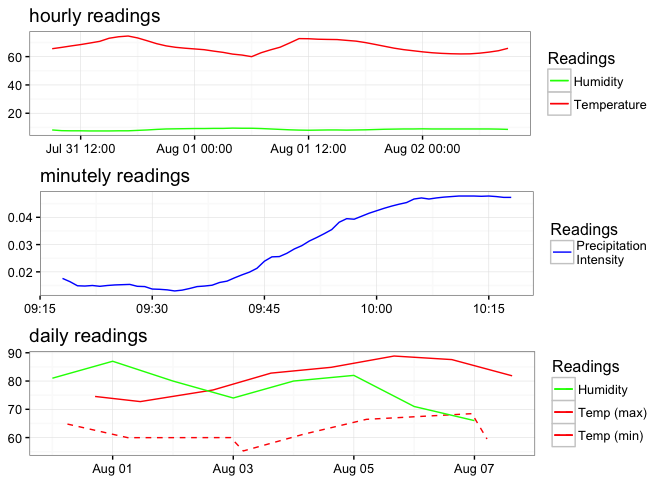
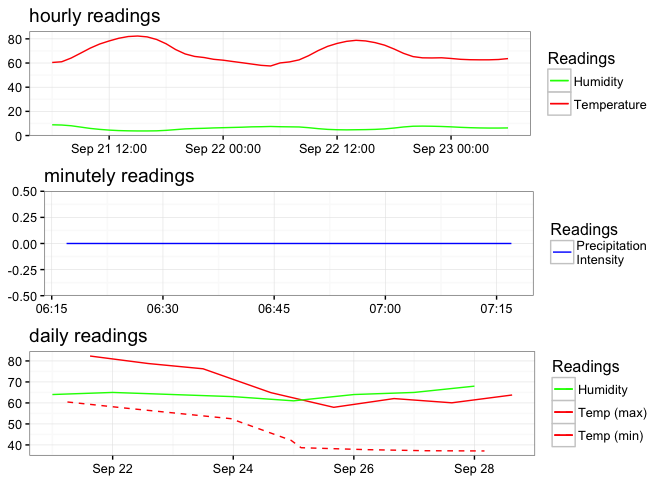
Fixed URLs in other places besides API calls & changed references to "Forecast API" to "Dark Sky API"

diff --git a/README.md b/README.md
@@ -1,10 +1,10 @@
 
 [![Build Status](https://travis-ci.org/hrbrmstr/Rforecastio.svg)](https://travis-ci.org/hrbrmstr/Rforecastio)
 
-`Rforecastio` : Tools to Work with the 'Forecast' 'API'
+`Rforecastio` : Tools to Work with the Dark Sky API
 
--   Forecast API Docs: <https://developer.forecast.io/docs/v2>
--   Forecast Dev site: <https://developer.forecast.io/>
+-   Forecast API Docs: <https://darksky.net/dev/docs>
+-   Forecast Dev site: <https://darksky.net/dev/>
 
 The following functions are implemented:
 
@@ -18,6 +18,7 @@ There have been several major enhancements to the way this package works with th
 
 ### News
 
+-   2.3.0 - Fixed API URL (thx Lasse Vilhelmsen!)
 -   2.2.0 - `print()` method, made JSON & headers optional in respons object, smarter printing
 -   Version 2.1.1 released - fix "language" parameter per \#9
 -   Version 2.1.0 released - added `httr::GET` pass-through `...` parameter to salient functions
@@ -39,7 +40,7 @@ library(Rforecastio)
 packageVersion("Rforecastio")
 ```
 
-    ## [1] '2.2.0'
+    ## [1] '2.3.0'
 
 ``` r
 now <- get_current_forecast(43.2672, -70.8617)
@@ -49,88 +50,85 @@ print(now)
     ## minutely 
     ## ======================================================================================================================== 
     ## Observations: 61
-    ## Variables: 5
-    ## $ time                 <time> 2016-07-31 09:18:00, 2016-07-31 09:19:00, 2016-07-31 09:20:00, 2016-07-31 09:21:00, 2...
-    ## $ precipIntensity      <dbl> 0.0176, 0.0164, 0.0149, 0.0148, 0.0150, 0.0147, 0.0150, 0.0152, 0.0153, 0.0154, 0.0147...
-    ## $ precipIntensityError <dbl> 0.0009, 0.0010, 0.0009, 0.0009, 0.0010, 0.0009, 0.0010, 0.0011, 0.0012, 0.0013, 0.0013...
-    ## $ precipProbability    <int> 1, 1, 1, 1, 1, 1, 1, 1, 1, 1, 1, 1, 1, 1, 1, 1, 1, 1, 1, 1, 1, 1, 1, 1, 1, 1, 1, 1, 1,...
-    ## $ precipType           <chr> "rain", "rain", "rain", "rain", "rain", "rain", "rain", "rain", "rain", "rain", "rain"...
+    ## Variables: 3
+    ## $ time              <dttm> 2016-09-21 06:17:00, 2016-09-21 06:18:00, 2016-09-21 06:19:00, 2016-09-21 06:20:00, 2016...
+    ## $ precipIntensity   <int> 0, 0, 0, 0, 0, 0, 0, 0, 0, 0, 0, 0, 0, 0, 0, 0, 0, 0, 0, 0, 0, 0, 0, 0, 0, 0, 0, 0, 0, 0,...
+    ## $ precipProbability <int> 0, 0, 0, 0, 0, 0, 0, 0, 0, 0, 0, 0, 0, 0, 0, 0, 0, 0, 0, 0, 0, 0, 0, 0, 0, 0, 0, 0, 0, 0,...
     ## 
     ## hourly 
     ## ======================================================================================================================== 
     ## Observations: 49
     ## Variables: 16
-    ## $ time                <time> 2016-07-31 09:00:00, 2016-07-31 10:00:00, 2016-07-31 11:00:00, 2016-07-31 12:00:00, 20...
-    ## $ summary             <chr> "Light Rain", "Light Rain", "Light Rain", "Light Rain", "Light Rain", "Light Rain", "Li...
-    ## $ icon                <chr> "rain", "rain", "rain", "rain", "rain", "rain", "rain", "rain", "partly-cloudy-day", "p...
-    ## $ precipIntensity     <dbl> 0.0189, 0.0326, 0.0347, 0.0297, 0.0247, 0.0184, 0.0132, 0.0067, 0.0022, 0.0025, 0.0000,...
-    ## $ precipProbability   <dbl> 0.49, 0.53, 0.54, 0.53, 0.51, 0.48, 0.45, 0.28, 0.06, 0.07, 0.00, 0.00, 0.00, 0.00, 0.0...
-    ## $ precipType          <chr> "rain", "rain", "rain", "rain", "rain", "rain", "rain", "rain", "rain", "rain", NA, NA,...
-    ## $ temperature         <dbl> 65.59, 66.53, 67.56, 68.51, 69.63, 70.78, 72.99, 74.04, 74.55, 73.20, 71.22, 69.15, 67....
-    ## $ apparentTemperature <dbl> 65.59, 66.53, 67.56, 68.51, 69.63, 70.78, 72.99, 74.04, 74.55, 73.20, 71.22, 69.15, 67....
-    ## $ dewPoint            <dbl> 59.80, 59.17, 59.78, 60.49, 61.48, 62.59, 64.47, 65.96, 66.63, 66.27, 65.51, 64.91, 64....
-    ## $ humidity            <dbl> 0.82, 0.77, 0.76, 0.76, 0.75, 0.75, 0.75, 0.76, 0.76, 0.79, 0.82, 0.86, 0.89, 0.90, 0.9...
-    ## $ windSpeed           <dbl> 5.26, 5.37, 5.16, 5.21, 4.29, 3.95, 4.16, 3.77, 3.76, 3.76, 3.99, 3.27, 2.75, 2.38, 2.2...
-    ## $ windBearing         <int> 31, 40, 50, 63, 72, 80, 86, 89, 94, 100, 81, 79, 85, 97, 99, 76, 31, 13, 6, 6, 11, 8, 2...
-    ## $ visibility          <dbl> 7.53, 8.41, 8.53, 9.92, 8.76, 9.93, 9.90, 9.77, 9.66, 9.52, 9.44, 9.25, 9.10, 8.95, 8.8...
-    ## $ cloudCover          <dbl> 0.87, 0.98, 0.99, 1.00, 1.00, 1.00, 0.94, 0.86, 0.82, 0.80, 0.80, 0.82, 0.84, 0.88, 0.9...
-    ## $ pressure            <dbl> 1019.96, 1020.22, 1020.38, 1020.38, 1020.26, 1020.07, 1019.73, 1019.27, 1018.94, 1018.8...
-    ## $ ozone               <dbl> 293.15, 293.25, 293.26, 293.09, 292.84, 292.68, 292.74, 292.89, 292.89, 292.50, 291.96,...
+    ## $ time                <dttm> 2016-09-21 06:00:00, 2016-09-21 07:00:00, 2016-09-21 08:00:00, 2016-09-21 09:00:00, 20...
+    ## $ summary             <chr> "Clear", "Clear", "Clear", "Clear", "Clear", "Clear", "Clear", "Clear", "Clear", "Clear...
+    ## $ icon                <chr> "clear-night", "clear-day", "clear-day", "clear-day", "clear-day", "clear-day", "clear-...
+    ## $ precipIntensity     <dbl> 0, 0, 0, 0, 0, 0, 0, 0, 0, 0, 0, 0, 0, 0, 0, 0, 0, 0, 0, 0, 0, 0, 0, 0, 0, 0, 0, 0, 0, ...
+    ## $ precipProbability   <dbl> 0, 0, 0, 0, 0, 0, 0, 0, 0, 0, 0, 0, 0, 0, 0, 0, 0, 0, 0, 0, 0, 0, 0, 0, 0, 0, 0, 0, 0, ...
+    ## $ temperature         <dbl> 60.45, 61.04, 64.13, 68.18, 72.31, 75.73, 78.26, 80.47, 81.92, 82.34, 81.63, 79.48, 75....
+    ## $ apparentTemperature <dbl> 60.45, 61.04, 64.13, 68.18, 72.31, 75.73, 78.26, 80.37, 81.23, 81.46, 80.91, 79.48, 75....
+    ## $ dewPoint            <dbl> 57.17, 57.23, 58.11, 58.08, 57.35, 56.27, 55.12, 54.70, 54.21, 53.88, 53.33, 52.49, 51....
+    ## $ humidity            <dbl> 0.89, 0.87, 0.81, 0.70, 0.59, 0.51, 0.45, 0.41, 0.39, 0.38, 0.38, 0.39, 0.43, 0.49, 0.5...
+    ## $ windSpeed           <dbl> 5.50, 5.54, 5.98, 5.69, 5.95, 5.83, 5.14, 5.20, 5.27, 5.52, 5.79, 6.09, 4.70, 3.68, 3.4...
+    ## $ windBearing         <int> 289, 296, 298, 303, 303, 300, 289, 277, 270, 267, 265, 264, 263, 259, 258, 257, 259, 26...
+    ## $ visibility          <dbl> 9.25, 8.88, 9.08, 9.76, 10.00, 10.00, 10.00, 10.00, 10.00, 10.00, 10.00, 10.00, 10.00, ...
+    ## $ cloudCover          <dbl> 0.10, 0.16, 0.17, 0.19, 0.19, 0.19, 0.21, 0.21, 0.21, 0.19, 0.17, 0.15, 0.15, 0.17, 0.1...
+    ## $ pressure            <dbl> 1018.89, 1019.48, 1019.94, 1020.22, 1020.37, 1020.41, 1020.28, 1020.03, 1019.80, 1019.5...
+    ## $ ozone               <dbl> 267.65, 268.17, 268.60, 268.86, 269.03, 269.12, 269.15, 269.11, 268.97, 268.71, 268.36,...
+    ## $ precipType          <chr> NA, NA, NA, NA, NA, NA, NA, NA, NA, NA, NA, NA, NA, NA, NA, NA, NA, NA, NA, NA, NA, NA,...
     ## 
     ## daily 
     ## ======================================================================================================================== 
     ## Observations: 8
     ## Variables: 27
-    ## $ time                       <time> 2016-07-31, 2016-08-01, 2016-08-02, 2016-08-03, 2016-08-04, 2016-08-05, 2016-08...
-    ## $ summary                    <chr> "Light rain until afternoon.", "Light rain until evening.", "Mostly cloudy until...
-    ## $ icon                       <chr> "rain", "rain", "partly-cloudy-day", "partly-cloudy-day", "rain", "rain", "partl...
-    ## $ sunriseTime                <time> 2016-07-31 05:34:14, 2016-08-01 05:35:18, 2016-08-02 05:36:23, 2016-08-03 05:37...
-    ## $ sunsetTime                 <time> 2016-07-31 20:07:48, 2016-08-01 20:06:38, 2016-08-02 20:05:26, 2016-08-03 20:04...
-    ## $ moonPhase                  <dbl> 0.93, 0.96, 0.99, 0.03, 0.06, 0.10, 0.13, 0.16
-    ## $ precipIntensity            <dbl> 0.0088, 0.0083, 0.0018, 0.0000, 0.0061, 0.0049, 0.0035, 0.0009
-    ## $ precipIntensityMax         <dbl> 0.0347, 0.0239, 0.0042, 0.0000, 0.0255, 0.0143, 0.0130, 0.0013
-    ## $ precipIntensityMaxTime     <time> 2016-07-31 11:00:00, 2016-08-01 11:00:00, 2016-08-02 10:00:00, NA, 2016-08-04 1...
-    ## $ precipProbability          <dbl> 0.54, 0.51, 0.15, 0.00, 0.51, 0.46, 0.45, 0.02
-    ## $ precipType                 <chr> "rain", "rain", "rain", NA, "rain", "rain", "rain", "rain"
-    ## $ temperatureMin             <dbl> 64.78, 59.97, 59.99, 55.27, 61.19, 66.45, 68.46, 59.50
-    ## $ temperatureMinTime         <time> 2016-07-31 06:00:00, 2016-08-01 06:00:00, 2016-08-02 23:00:00, 2016-08-03 04:00...
-    ## $ temperatureMax             <dbl> 74.55, 72.73, 76.85, 82.80, 84.86, 88.85, 87.59, 81.85
-    ## $ temperatureMaxTime         <time> 2016-07-31 17:00:00, 2016-08-01 11:00:00, 2016-08-02 16:00:00, 2016-08-03 15:00...
-    ## $ apparentTemperatureMin     <dbl> 64.78, 59.97, 59.99, 55.27, 61.19, 66.45, 68.46, 59.50
-    ## $ apparentTemperatureMinTime <time> 2016-07-31 06:00:00, 2016-08-01 06:00:00, 2016-08-02 23:00:00, 2016-08-03 04:00...
-    ## $ apparentTemperatureMax     <dbl> 74.55, 72.73, 76.85, 83.86, 90.66, 101.14, 88.73, 81.89
-    ## $ apparentTemperatureMaxTime <time> 2016-07-31 17:00:00, 2016-08-01 11:00:00, 2016-08-02 16:00:00, 2016-08-03 15:00...
-    ## $ dewPoint                   <dbl> 61.85, 63.03, 60.67, 59.04, 65.62, 70.87, 65.96, 57.87
-    ## $ humidity                   <dbl> 0.81, 0.87, 0.80, 0.74, 0.80, 0.82, 0.71, 0.66
-    ## $ windSpeed                  <dbl> 2.75, 3.80, 4.00, 1.59, 5.68, 6.61, 9.18, 9.37
-    ## $ windBearing                <int> 48, 22, 43, 157, 217, 224, 260, 277
-    ## $ visibility                 <dbl> 9.29, 9.67, 10.00, 10.00, NA, NA, NA, NA
-    ## $ cloudCover                 <dbl> 0.87, 0.89, 0.59, 0.17, 0.08, 0.12, 0.31, 0.07
-    ## $ pressure                   <dbl> 1019.28, 1019.16, 1019.14, 1018.71, 1016.80, 1012.89, 1004.69, 1004.93
-    ## $ ozone                      <dbl> 293.11, 306.51, 320.24, 294.27, 289.34, 287.42, 296.38, 312.59
+    ## $ time                       <dttm> 2016-09-21, 2016-09-22, 2016-09-23, 2016-09-24, 2016-09-25, 2016-09-26, 2016-09...
+    ## $ summary                    <chr> "Clear throughout the day.", "Partly cloudy overnight.", "Light rain starting in...
+    ## $ icon                       <chr> "clear-day", "partly-cloudy-night", "rain", "clear-day", "clear-day", "clear-day...
+    ## $ sunriseTime                <dttm> 2016-09-21 06:31:22, 2016-09-22 06:32:28, 2016-09-23 06:33:34, 2016-09-24 06:34...
+    ## $ sunsetTime                 <dttm> 2016-09-21 18:43:59, 2016-09-22 18:42:09, 2016-09-23 18:40:19, 2016-09-24 18:38...
+    ## $ moonPhase                  <dbl> 0.68, 0.72, 0.75, 0.79, 0.83, 0.86, 0.90, 0.93
+    ## $ precipIntensity            <dbl> 0.000, 0.000, 0.003, 0.000, 0.000, 0.000, 0.000, 0.002
+    ## $ precipIntensityMax         <dbl> 0.0000, 0.0000, 0.0151, 0.0000, 0.0000, 0.0000, 0.0000, 0.0049
+    ## $ precipProbability          <dbl> 0.00, 0.00, 0.45, 0.00, 0.00, 0.00, 0.00, 0.17
+    ## $ temperatureMin             <dbl> 60.45, 57.55, 52.51, 42.19, 38.67, 37.75, 37.23, 37.13
+    ## $ temperatureMinTime         <dttm> 2016-09-21 06:00:00, 2016-09-22 05:00:00, 2016-09-23 23:00:00, 2016-09-24 23:00...
+    ## $ temperatureMax             <dbl> 82.34, 78.79, 76.26, 64.89, 57.91, 62.08, 60.06, 63.78
+    ## $ temperatureMaxTime         <dttm> 2016-09-21 15:00:00, 2016-09-22 14:00:00, 2016-09-23 12:00:00, 2016-09-24 15:00...
+    ## $ apparentTemperatureMin     <dbl> 60.45, 57.55, 52.51, 38.69, 34.63, 33.62, 35.05, 37.13
+    ## $ apparentTemperatureMinTime <dttm> 2016-09-21 06:00:00, 2016-09-22 05:00:00, 2016-09-23 23:00:00, 2016-09-24 23:00...
+    ## $ apparentTemperatureMax     <dbl> 81.46, 78.79, 76.26, 64.89, 57.91, 62.08, 60.06, 63.78
+    ## $ apparentTemperatureMaxTime <dttm> 2016-09-21 15:00:00, 2016-09-22 14:00:00, 2016-09-23 12:00:00, 2016-09-24 15:00...
+    ## $ dewPoint                   <dbl> 55.47, 54.40, 53.39, 39.67, 33.36, 35.27, 35.13, 39.50
+    ## $ humidity                   <dbl> 0.64, 0.65, 0.64, 0.63, 0.61, 0.64, 0.65, 0.68
+    ## $ windSpeed                  <dbl> 4.44, 1.65, 3.99, 6.51, 8.39, 4.07, 1.96, 1.83
+    ## $ windBearing                <int> 275, 172, 253, 314, 312, 313, 76, 144
+    ## $ visibility                 <dbl> 9.66, 10.00, 10.00, 10.00, NA, NA, NA, NA
+    ## $ cloudCover                 <dbl> 0.16, 0.11, 0.47, 0.04, 0.00, 0.03, 0.28, 0.80
+    ## $ pressure                   <dbl> 1019.42, 1020.52, 1015.70, 1018.16, 1019.32, 1020.79, 1024.43, 1027.86
+    ## $ ozone                      <dbl> 267.59, 258.92, 266.50, 307.41, 326.02, 313.50, 302.12, 297.17
+    ## $ precipIntensityMaxTime     <dttm> NA, NA, 2016-09-23 20:00:00, NA, NA, NA, NA, 2016-09-28 22:00:00
+    ## $ precipType                 <chr> NA, NA, "rain", NA, NA, NA, NA, "rain"
     ## 
     ## currently 
     ## ======================================================================================================================== 
     ## Observations: 1
-    ## Variables: 18
-    ## $ time                 <time> 2016-07-31 09:18:56
-    ## $ summary              <chr> "Light Rain"
-    ## $ icon                 <chr> "rain"
-    ## $ nearestStormDistance <int> 0
-    ## $ precipIntensity      <dbl> 0.0165
-    ## $ precipIntensityError <dbl> 0.001
-    ## $ precipProbability    <int> 1
-    ## $ precipType           <chr> "rain"
-    ## $ temperature          <dbl> 65.89
-    ## $ apparentTemperature  <dbl> 65.89
-    ## $ dewPoint             <dbl> 59.61
-    ## $ humidity             <dbl> 0.8
-    ## $ windSpeed            <dbl> 5.28
-    ## $ windBearing          <int> 33
-    ## $ visibility           <dbl> 7.81
-    ## $ cloudCover           <dbl> 0.91
-    ## $ pressure             <dbl> 1020.04
-    ## $ ozone                <dbl> 293.18
+    ## Variables: 17
+    ## $ time                 <dttm> 2016-09-21 06:17:38
+    ## $ summary              <chr> "Clear"
+    ## $ icon                 <chr> "clear-night"
+    ## $ nearestStormDistance <int> 26
+    ## $ nearestStormBearing  <int> 192
+    ## $ precipIntensity      <int> 0
+    ## $ precipProbability    <int> 0
+    ## $ temperature          <dbl> 60.62
+    ## $ apparentTemperature  <dbl> 60.62
+    ## $ dewPoint             <dbl> 57.19
+    ## $ humidity             <dbl> 0.88
+    ## $ windSpeed            <dbl> 5.5
+    ## $ windBearing          <int> 291
+    ## $ visibility           <dbl> 9.14
+    ## $ cloudCover           <dbl> 0.12
+    ## $ pressure             <dbl> 1019.06
+    ## $ ozone                <dbl> 267.8
 
 ``` r
 then <- get_forecast_for(43.2672, -70.8617, "2013-05-06T12:00:00-0400", add_headers=TRUE)
@@ -141,7 +139,7 @@ print(then)
     ## ======================================================================================================================== 
     ## Observations: 24
     ## Variables: 14
-    ## $ time                <time> 2013-05-06 00:00:00, 2013-05-06 01:00:00, 2013-05-06 02:00:00, 2013-05-06 03:00:00, 20...
+    ## $ time                <dttm> 2013-05-06 00:00:00, 2013-05-06 01:00:00, 2013-05-06 02:00:00, 2013-05-06 03:00:00, 20...
     ## $ summary             <chr> "Clear", "Clear", "Clear", "Clear", "Clear", "Clear", "Clear", "Partly Cloudy", "Partly...
     ## $ icon                <chr> "clear-night", "clear-night", "clear-night", "clear-night", "clear-night", "clear-night...
     ## $ precipIntensity     <int> 0, 0, 0, 0, 0, 0, 0, 0, 0, 0, 0, 0, 0, 0, 0, 0, 0, 0, 0, 0, 0, 0, 0, 0
@@ -160,23 +158,23 @@ print(then)
     ## ======================================================================================================================== 
     ## Observations: 1
     ## Variables: 24
-    ## $ time                       <time> 2013-05-06
+    ## $ time                       <dttm> 2013-05-06
     ## $ summary                    <chr> "Foggy overnight."
     ## $ icon                       <chr> "fog"
-    ## $ sunriseTime                <time> 2013-05-06 05:30:54
-    ## $ sunsetTime                 <time> 2013-05-06 19:51:43
+    ## $ sunriseTime                <dttm> 2013-05-06 05:30:54
+    ## $ sunsetTime                 <dttm> 2013-05-06 19:51:43
     ## $ moonPhase                  <dbl> 0.9
     ## $ precipIntensity            <int> 0
     ## $ precipIntensityMax         <int> 0
     ## $ precipProbability          <int> 0
     ## $ temperatureMin             <dbl> 32.17
-    ## $ temperatureMinTime         <time> 2013-05-06 04:00:00
+    ## $ temperatureMinTime         <dttm> 2013-05-06 04:00:00
     ## $ temperatureMax             <dbl> 63.03
-    ## $ temperatureMaxTime         <time> 2013-05-06 14:00:00
+    ## $ temperatureMaxTime         <dttm> 2013-05-06 14:00:00
     ## $ apparentTemperatureMin     <dbl> 29.67
-    ## $ apparentTemperatureMinTime <time> 2013-05-06 06:00:00
+    ## $ apparentTemperatureMinTime <dttm> 2013-05-06 06:00:00
     ## $ apparentTemperatureMax     <dbl> 63.03
-    ## $ apparentTemperatureMaxTime <time> 2013-05-06 14:00:00
+    ## $ apparentTemperatureMaxTime <dttm> 2013-05-06 14:00:00
     ## $ dewPoint                   <dbl> 39.32
     ## $ humidity                   <dbl> 0.76
     ## $ windSpeed                  <dbl> 4.54
@@ -189,7 +187,7 @@ print(then)
     ## ======================================================================================================================== 
     ## Observations: 1
     ## Variables: 14
-    ## $ time                <time> 2013-05-06 12:00:00
+    ## $ time                <dttm> 2013-05-06 12:00:00
     ## $ summary             <chr> "Clear"
     ## $ icon                <chr> "clear-day"
     ## $ precipIntensity     <int> 0
@@ -222,9 +220,9 @@ names(bigger_list) <- more_than_one$loc
 bigger_list$Seattle[[1]]
 ```
 
-    ## # A tibble: 24 x 13
+    ## # A tibble: 24 × 13
     ##                   time       summary                icon precipType temperature apparentTemperature dewPoint humidity
-    ##                 <time>         <chr>               <chr>      <chr>       <dbl>               <dbl>    <dbl>    <dbl>
+    ##                 <dttm>         <chr>               <chr>      <chr>       <dbl>               <dbl>    <dbl>    <dbl>
     ## 1  2013-05-06 12:00:00 Partly Cloudy partly-cloudy-night       rain       57.34               57.34    36.96     0.46
     ## 2  2013-05-06 13:00:00         Clear         clear-night       rain       55.78               55.78    37.89     0.51
     ## 3  2013-05-06 14:00:00         Clear         clear-night       rain       54.52               54.52    38.45     0.54
@@ -242,9 +240,9 @@ bigger_list$Seattle[[1]]
 bigger_list$Maine[[1]]
 ```
 
-    ## # A tibble: 24 x 13
+    ## # A tibble: 24 × 13
     ##                   time summary        icon precipType temperature apparentTemperature dewPoint humidity windSpeed
-    ##                 <time>   <chr>       <chr>      <chr>       <dbl>               <dbl>    <dbl>    <dbl>     <dbl>
+    ##                 <dttm>   <chr>       <chr>      <chr>       <dbl>               <dbl>    <dbl>    <dbl>     <dbl>
     ## 1  2013-05-05 14:00:00   Clear clear-night       rain       53.29               53.29    35.65     0.51      3.41
     ## 2  2013-05-05 15:00:00   Clear clear-night       rain       52.38               52.38    36.48     0.55      3.32
     ## 3  2013-05-05 16:00:00   Clear clear-night       rain       51.25               51.25    40.43     0.66     13.00
@@ -261,7 +259,7 @@ bigger_list$Maine[[1]]
 print(sprintf("You have used %s API calls.", then$`x-forecast-api-calls`))
 ```
 
-    ## [1] "You have used 13 API calls."
+    ## [1] "You have used 22 API calls."
 
 ``` r
 plot(now)
@@ -278,7 +276,7 @@ library(testthat)
 date()
 ```
 
-    ## [1] "Sun Jul 31 09:19:01 2016"
+    ## [1] "Wed Sep 21 06:17:40 2016"
 
 ``` r
 test_dir("tests/")
